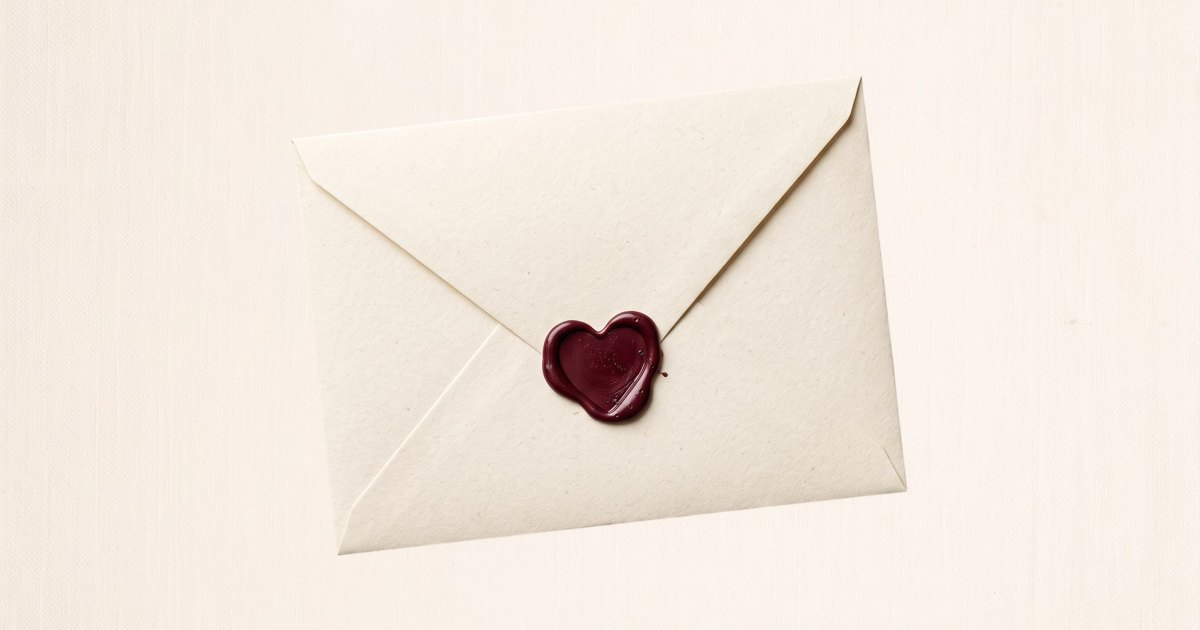
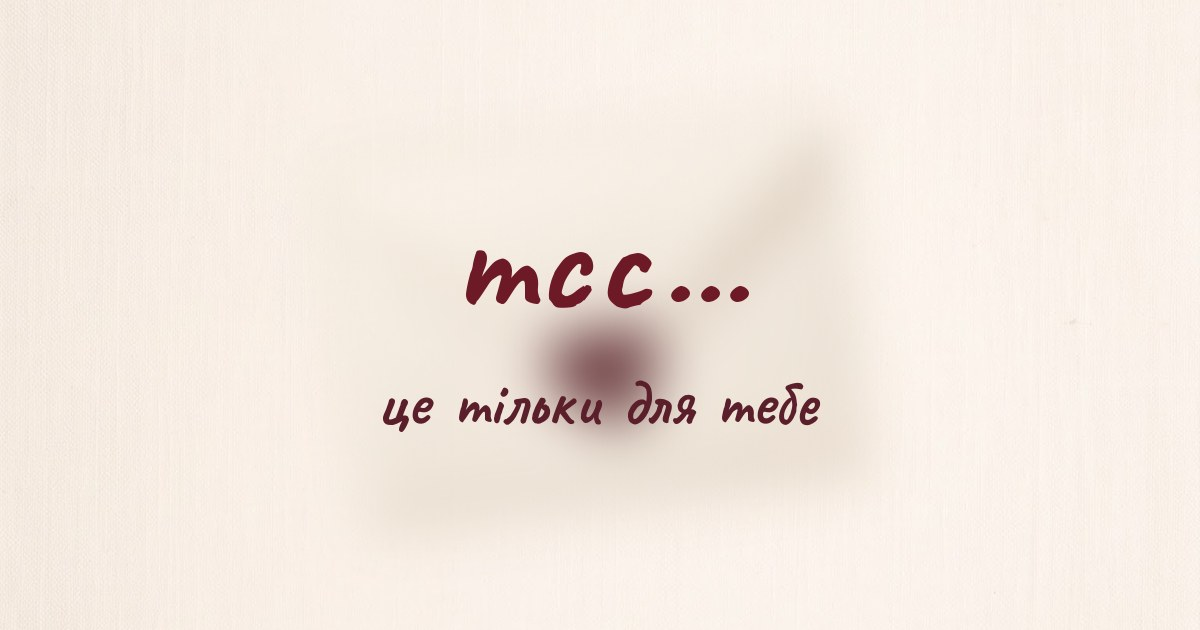
Загадкове прев'ю посилання для месенджерів
Claude-Session: https://claude.ai/code/session_01U4dsgi7dMubc4od6VGtzjr

Changed region(s): [[0.2775, 0.1206, 0.7708, 0.9048], [0.6475, 0.2714, 0.6783, 0.3317], [0.2775, 0.3016, 0.3083, 0.3619]]

diff --git a/index.html b/index.html
@@ -7,9 +7,11 @@
 <meta name="robots" content="noindex, nofollow">
 <meta name="theme-color" content="#efe4d8">
 <meta property="og:type" content="website">
-<meta property="og:title" content="Тобі лист 💌">
-<meta property="og:description" content="Відкрий конверт">
-<meta property="og:image" content="https://yakovyshynn-afk.github.io/LOVESMS/assets/og.jpg">
+<meta property="og:site_name" content="Особиста пошта">
+<meta property="og:title" content="Тобі щось прийшло">
+<meta property="og:description" content="Відкрий, коли будеш сама">
+<meta name="description" content="Відкрий, коли будеш сама">
+<meta property="og:image" content="https://yakovyshynn-afk.github.io/LOVESMS/assets/og.jpg?v=2">
 <meta property="og:image:width" content="1200">
 <meta property="og:image:height" content="630">
 <meta name="twitter:card" content="summary_large_image">
